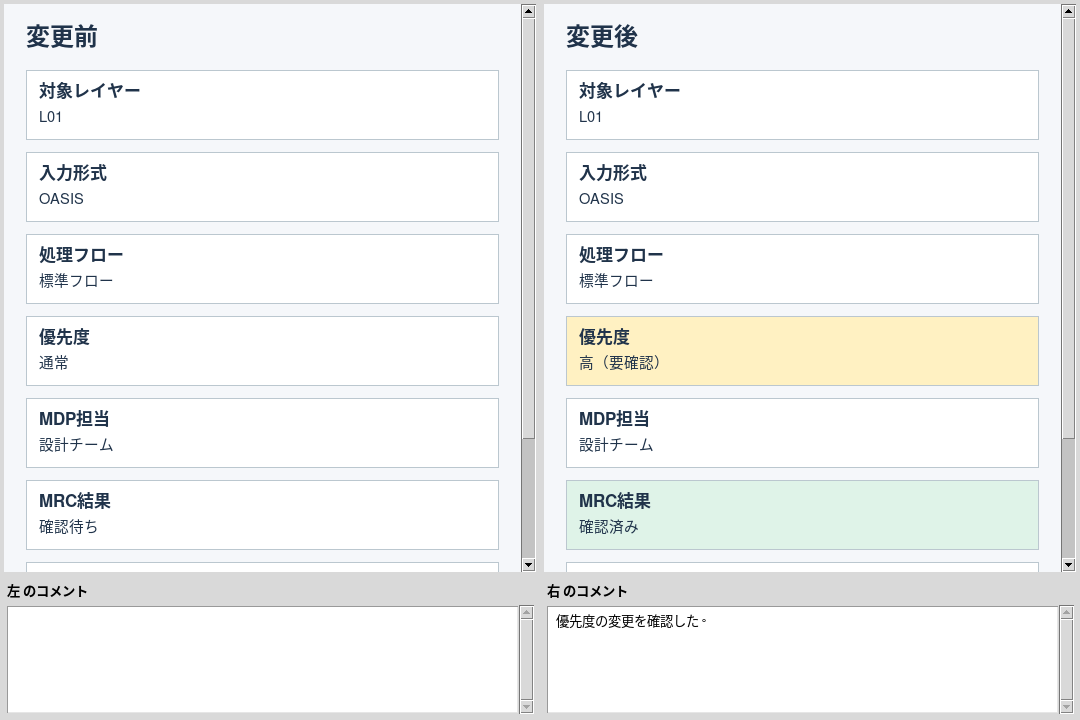
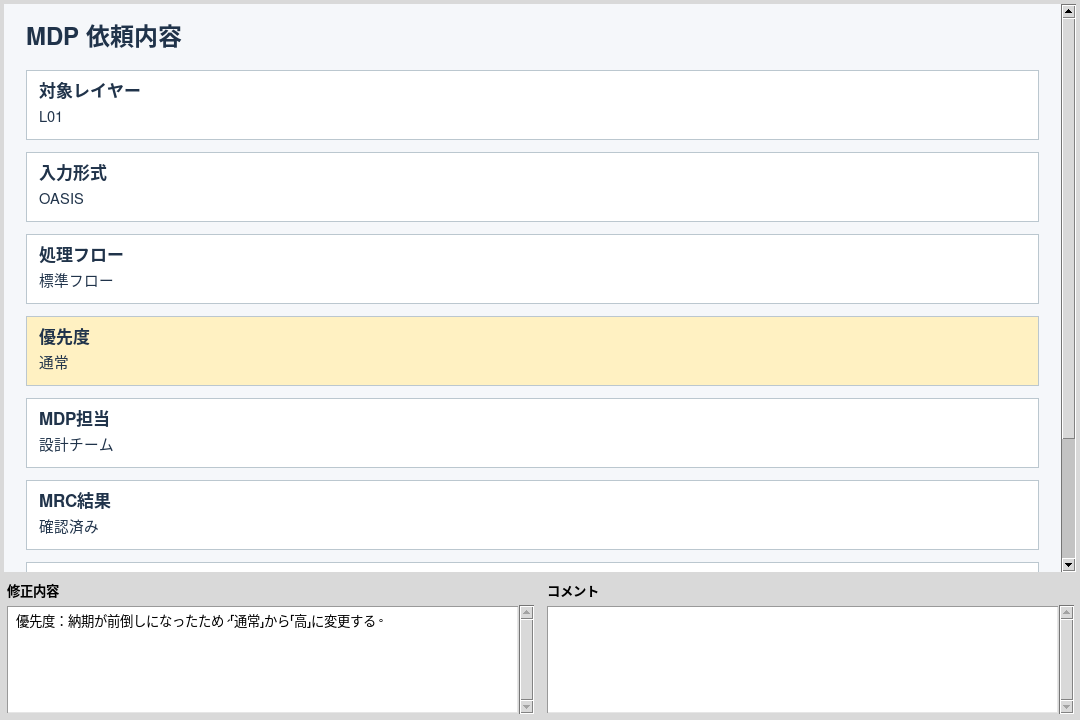
Show a single report with highlighted revision requests and split comments

diff --git a/xml-viewer/README.md b/xml-viewer/README.md
@@ -1,16 +1,23 @@
 # XML レビュー
 
-![変更前と変更後のXMLを左右に表示した画面。右側で優先度が黄色、MRC結果が緑色に強調され、下部にコメント欄がある。](screenshot.png)
+![上部に1枚のMDP依頼内容を表示した画面。優先度のマスが黄色で、左下に変更理由、右下に空のコメント欄がある。](screenshot.png)
 
-Tcl/Tk 8.6、同じ Tcl 環境から読み込める Tkhtml 3、PATH 上の xsltproc が必要。
-展開したフォルダーで次を実行する。
+画面上部の8割に、XMLをXSLで変換したHTMLを表示する。右端のスクロールバーで文書全体を閲覧できる。下部の2割は左右に等分し、左に修正内容、右に自由記入用のコメント欄を配置した。コメント欄の編集内容は終了時に破棄される。
 
-    wish viewer.tcl
+## 起動
 
-自分の XML を左右に表示する場合は順番に指定する。
+Tcl/Tk 8.6、同じTcl環境から読み込めるTkhtml 3、PATH上のxsltprocが必要。xml-viewerフォルダーで起動する。
 
-    wish viewer.tcl before.xml after.xml
+```bash
+wish viewer.tcl             # 同梱のsample.xmlを表示
+wish viewer.tcl report.xml  # 自分のXMLを表示
+```
 
-XML の構造は left.xml と right.xml を参照。report の title がページ名、box の title が見出し、要素の本文が内容となる。
-各 box に mark="review" を付けると黄色、mark="ok" で緑色になる。省略時は白色。配色は report.xsl の background 変数で変更する。
-左右のスクロールバーで個別に閲覧できる。コメントは画面を閉じると消える。
+## 修正箇所の指定
+
+対象のboxにmark="review"を付け、reasonに修正内容を書く。上段には現在の値が表示され、左下には項目名と修正内容がXML順に並ぶ。指定のないマスは白色になる。
+
+```xml
+<box title="優先度" mark="review"
+     reason="納期が前倒しになったため、「通常」から「高」に変更する。">通常</box>
+```
